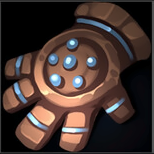
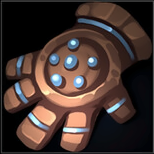
fix(cut): рез по самой дальней грани белой линии
Внешний сглаженный край линии тусклее её ядра (20-30 против ~60), а порог
_line_like стоял на 30 - этот пиксель часто отрезался, и линия получалась
обкусанной.

- LINE_MIN_BRIGHT = 10, LINE_MAX_CHROMA = 25, LINE_MAX = 4
- проверка: за границей выреза 0 из 192 границ содержат линию
- замер по 62 иконкам: 147-155, медиана 154 (было 146-155/153)
- samples/examples: одиночные примеры пересобраны

diff --git a/tools/batch_all.py b/tools/batch_all.py
@@ -80,13 +80,19 @@ FRAME_GAP = 4       # зазор между бортом и рисунком: и
 INSET_CROP = 0      # оставлено для совместимости: границы берём по белой линии
 
 
-LINE_MAX = 3        # насколько белая линия сетки может выступать за bbox
+LINE_MAX = 4        # насколько белая линия сетки может выступать за bbox
+LINE_MIN_BRIGHT = 10   # внешний край линии тусклее её ядра (антиалиас): 20-30
+LINE_MAX_CHROMA = 25   # линия серая; цветной рисунок у края не трогаем
 
 
 def _line_like(px: np.ndarray) -> bool:
-    """Похоже на белую линию сетки: светлое и без цвета (px - один пиксель BGR)."""
+    """Похоже на белую линию сетки (px - один пиксель BGR).
+
+    Ядро линии яркое (~60), а её внешний сглаженный край - 20-30, поэтому
+    порог низкий: иначе срез проходил по ядру и половина линии отрезалась.
+    """
     f = px.astype(np.int16)
-    return f.mean() >= 30 and (f.max() - f.min()) <= 14
+    return f.mean() >= LINE_MIN_BRIGHT and (f.max() - f.min()) <= LINE_MAX_CHROMA
 
 
 def crop_by_sheet_line(img: np.ndarray, box) -> np.ndarray:

diff --git a/README_START.md b/README_START.md
@@ -15,10 +15,11 @@
 Размер — **родной, максимальный**: 146–155 px. **Без апскейла и без рамки**,
 пиксель в пиксель, поэтому ничего не размывается.
 
-Режем ровно **по внешнему краю белой линии сетки**: детектор находит рамку по
-её центру, а `crop_by_sheet_line()` отступает наружу на всю толщину линии
-(1–3 px, зависит от листа). Белая линия входит в иконку целиком и служит ей
-родной рамкой — как на исходном листе.
+Режем ровно **по самой дальней грани белой линии сетки**: детектор находит
+рамку по её центру, а `crop_by_sheet_line()` отступает наружу на всю толщину
+линии — ядро (~60) и сглаженный внешний край (~20–30), всего 1–4 px, зависит
+от листа. Белая линия входит в иконку целиком и служит ей родной рамкой,
+а за её границей уже тёмный жёлоб.
 
 ## macOS / Linux
 
